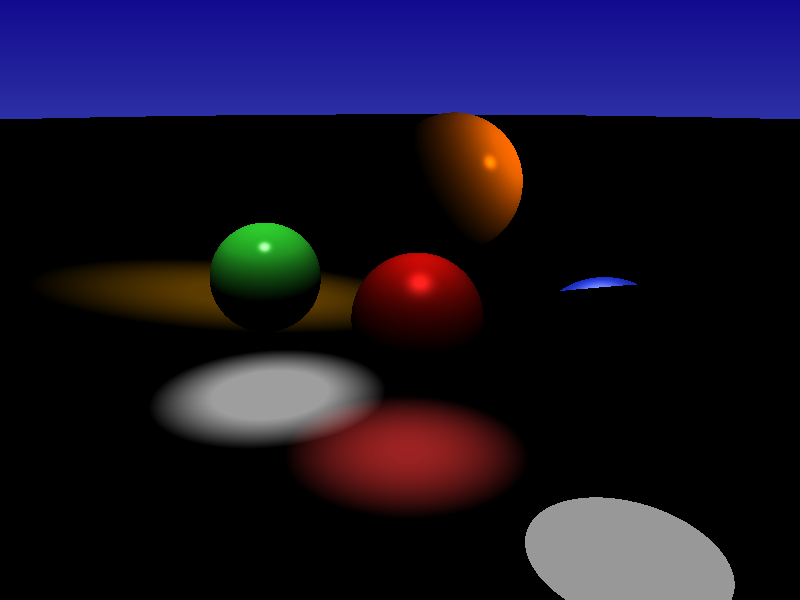
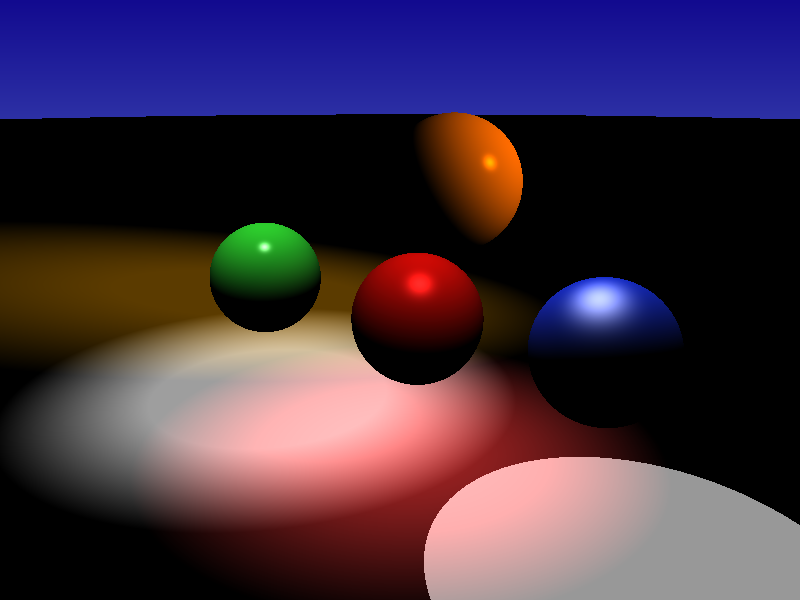
Fixing spotlight

diff --git a/include/light/spot.hpp b/include/light/spot.hpp
@@ -21,8 +21,8 @@ class SpotLight : public Light{
         this->scale = scale;
         this->from = from;
         this->to = to;
-        this->cutoff = cos(((cutoff*M_PI)/180.0)/2.0);
-        this->falloff = cos(((falloff*M_PI)/180.0)/2.0);
+        this->cutoff = cos((cutoff*M_PI)/180.0);
+        this->falloff = cos((falloff*M_PI)/180.0);
     }
 
     Vec sample_Li(const Surfel& hit /*in*/, Vec v, Vec *wi) {
